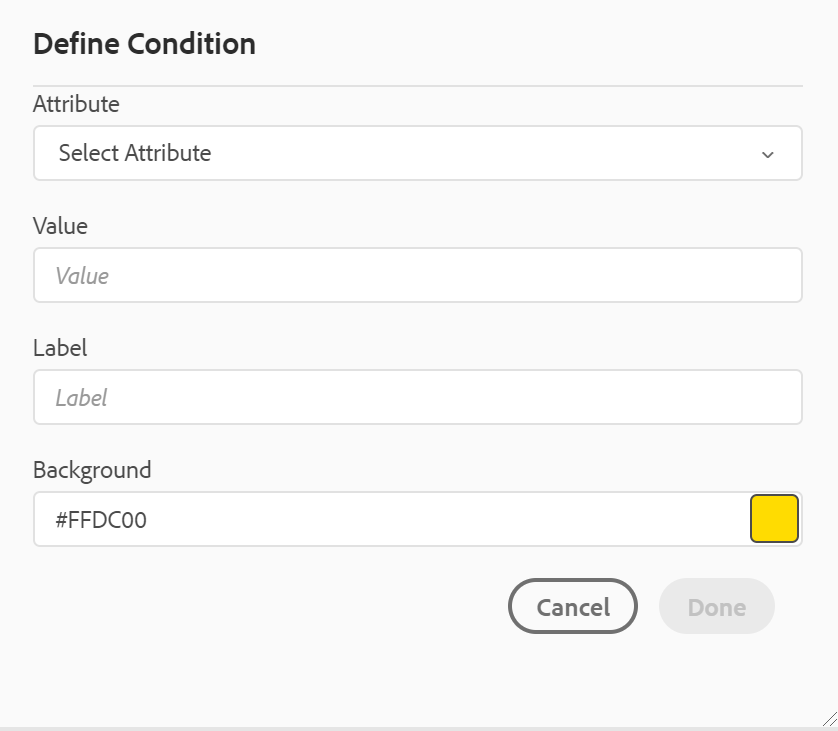
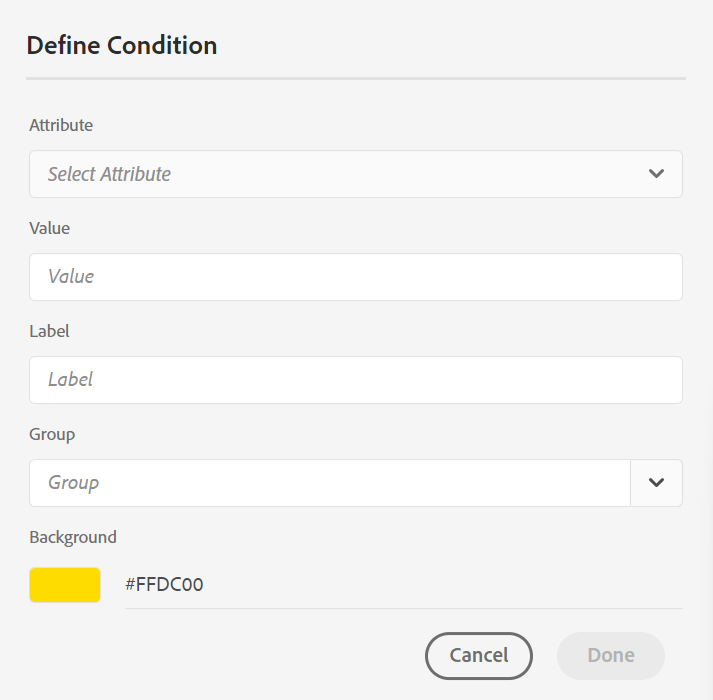
4.6 updates

diff --git a/help/product-guide/user-guide/web-editor-features.md b/help/product-guide/user-guide/web-editor-features.md
@@ -1502,7 +1502,16 @@ To add or define a condition, click the + icon next to Conditions panel to bring
 
 ![](images/conditional-panel-create-cond.png){width="400" align="left"}
 
-From the Attribute list, select the conditional attribute that you want to define, enter a value for the condition, then specify the label that is displayed in the Conditions panel. You can also define a color for the condition. This color is set as the background color of the content on which the condition is applied
+From the Attribute list, select the conditional attribute that you want to define, enter a value for the condition, then specify the label that is displayed in the Conditions panel. Define a group for the condition. You can add multiple condtions to a group.You can also define a color for the condition. This color is set as the background color of the content on which the condition is applied.
+
+You can group the conditions and organize them in a nested folder structure.  This helps create conditions at multiple levels and organize content better. Use the grouped conditions to organize and manage complex documentation. 
+
+For example, you can create condition groups of products like *Acrobat* and *AEM Guides*. You can select the conditional attributes for both groups. Under each group, you can have specific values like *User*, *Admin*, *Reviewer*, and *Author*.  
+
+You can use `/` and define sub-groups define sub-groups like `AEM Guides/Cloud Service`.
+
+![condtions organised in a nested hierarchy](images/conditions-nested-hierarchy.png){width="300" align="left"}
+
 
 To edit a condition, choose **Edit** from the Options menu. The Edit Condition dialog appears:
 
